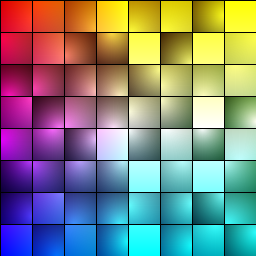
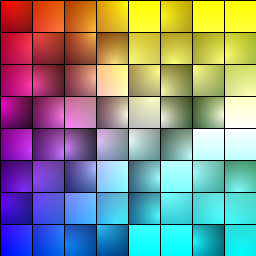
bayer

diff --git a/patterns.c b/patterns.c
@@ -9,6 +9,47 @@
 #include "hilbert.c"
 
 
+void createBayer(int size){
+uint8_t bayer_base[]={0,3,1,2};
+uint8_t *pixels=malloc(size*size);
+pixels[0]=0;
+int not_done=size;
+int l,q,a,s,ox,oy,st;
+for(l=0;not_done;l++,not_done>>=1){
+st=powl(2,l-1);
+for(q=3;q>=0;q--){
+ox=bayer_base[q]&1;
+oy=(bayer_base[q]>>1)&1;
+for(s=0;s<st;s++){
+for(a=0;a<st;a++){
+pixels[a+ox*st+(s+oy*st)*size]=pixels[a+s*size]*4+q;
+}
+}
+}
+}
+
+// out to console
+int w;
+for(w=0;w<size;w++){
+fprintf(stderr,"{");
+for(q=0;q<size;q++){
+fprintf(stderr,"% 3d%s",pixels[q+w*size],q==size-1?"":", ");
+}
+fprintf(stderr,"},\n");
+}
+
+// multiple to 256
+int mult=256/(size*size);
+for(w=0;w<size;w++){
+for(q=0;q<size;q++){
+pixels[q+w*size]*=mult;
+}
+}
+fwrite(pixels,1,size*size,stdout);
+free(pixels);
+}
+
+
 void createGradient4(int size){
 uint8_t *pixels=malloc(size*size);
 int q,w,p,mode;
@@ -277,6 +318,11 @@ createBinarySun(twidth,atoi(argv[3]),atoi(argv[4]));
 if(strstr(op,"hilbert")){
 createHilbert(twidth,atoi(argv[3]));
 }
+
+if(strstr(op,"bayer")){
+createBayer(twidth);
+}
+
 
 return EXIT_SUCCESS;
 }
